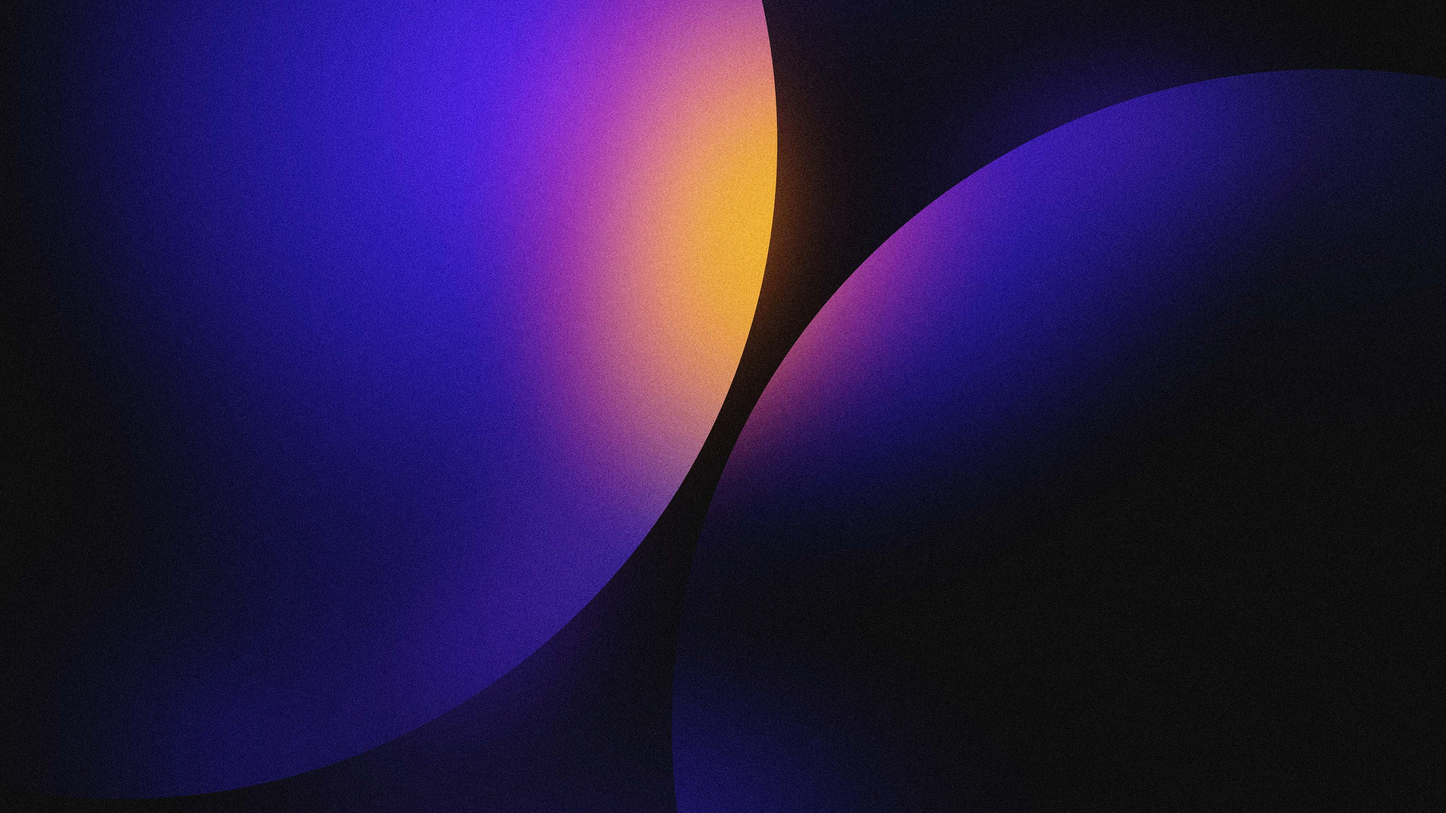
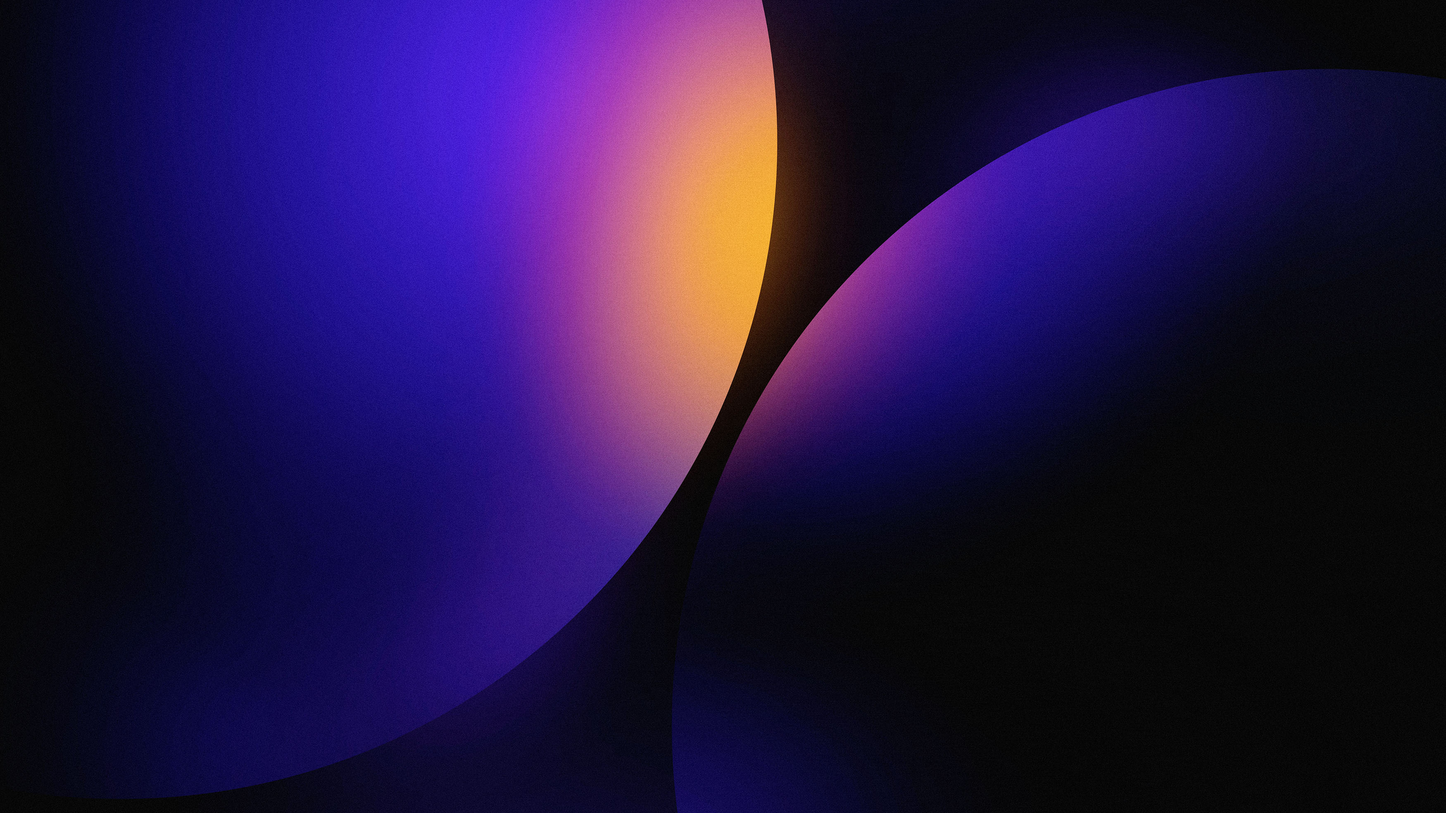
finally decided on the design style. dark-mode for software engineer

diff --git a/public/style.css b/public/style.css
@@ -58,7 +58,7 @@ h5 {
 
 html {
   box-sizing: border-box;
-  background-image: url("./public/resources/background-03.jpg");
+  background-image: url("./public/resources/background-01.jpg");
   background-size: cover;
   background-repeat: no-repeat;
   width: 100%;
@@ -119,7 +119,7 @@ html {
 
 .header_right .socialLinks a i {
   width: 20px;
-  color: #1c1c1c;
+  color: #c3c3c3;
   font-size: 1.4rem;
   margin: 0 0.7rem;
   transform: scale(1);
@@ -141,10 +141,10 @@ label {
   height: 1.4rem;
   position: relative;
   display: block;
-  background: #217f9b;
+  background: #22cbff;
   border-radius: 1.7rem;
   box-shadow: inset 0px 1px 4px rgba(11, 102, 152, 0.5),
-    inset 0px -1px 4px rgba(98, 174, 197, 1);
+    inset 0px -1px 4px rgb(164, 234, 255);
   cursor: pointer;
   transition: 0.3s;
 }
@@ -156,7 +156,7 @@ label:after {
   position: absolute;
   top: 0.5px;
   left: 0.5px;
-  background: linear-gradient(180deg, #9b9b9b, #d0d0d0);
+  background: linear-gradient(180deg, #d7d7d7, #c2c2c2);
   border-radius: 78px;
   box-shadow: 0px 1px 2px rgba(0, 0, 0, 0.2);
   transition: 0.3s;
@@ -169,14 +169,14 @@ input {
 }
 
 input:checked + label {
-  background: #c57b92;
-  box-shadow: inset 0px 1px 3px rgba(246, 152, 207, 0.7);
+  background: #ff91b4;
+  box-shadow: inset 0px 1px 3px rgba(255, 196, 230, 1);
 }
 
 input:checked + label:after {
   left: 3.45rem;
   transform: translateX(-100%);
-  background: linear-gradient(180deg, #9b9b9b, #d0d0d0);
+  background: linear-gradient(180deg, #d7d7d7, #c2c2c2);
 }
 
 label:active:after {
@@ -282,9 +282,6 @@ input:checked + label i.penIcon {
   display: grid;
   grid-template-columns: 1fr auto;
   grid-gap: 20px;
-  /* background-color: #343434; */
-  /* height: auto;
-  width: auto; */
   background-color: rgba(0, 0, 0, 0.8);
   backdrop-filter: blur(20px);
   -webkit-backdrop-filter: blur(20px);
@@ -313,7 +310,7 @@ input:checked + label i.penIcon {
 
 .project_content h4 {
   padding: 5px 0;
-  color: #3d644f;
+  color: #4a8767;
 }
 
 .project_content p {
@@ -334,21 +331,45 @@ input:checked + label i.penIcon {
   -webkit-backdrop-filter: blur(20px);
 }
 
+.three_dots:before {
+  content: "";
+  background-color: #f44336;
+  margin-left: -13px;
+  width: 10px;
+  height: 10px;
+  border-radius: 50%;
+  display: inline-block;
+  position: absolute;
+}
 .three_dots {
   background-color: #ffc107;
-  width: 5px;
-  height: 5px;
+  margin-left: 25px;
+  width: 10px;
+  height: 10px;
   border-radius: 50%;
+  display: inline-block;
 }
+.three_dots:after {
+  content: "";
+  background-color: #4caf50;
+  margin-left: 14px;
+  width: 10px;
+  height: 10px;
+  border-radius: 50%;
+  display: inline-block;
+  position: absolute;
+}
+
 .sw_title {
   color: #a1a1a1;
-  font-family: "Estedad-light";
-  padding: 0.1rem 0 0.1rem 2.5rem;
+  font-family: "Estedad-medium";
+  padding: 0.1rem 0 0.1rem 1.5rem;
+  display: inline;
 }
 
 .nav_links {
   font-family: "Estedad-light";
-  padding: 1em;
+  padding: 1.5em;
 }
 
 .nav_links li i {
@@ -362,4 +383,19 @@ input:checked + label i.penIcon {
 .nav_links li a.active {
   text-decoration: none;
   color: #909090;
+}
+
+.nav_sub_links {
+  padding-left: 1.5em;
+}
+
+.nav_sub_links li {
+  vertical-align: bottom;
+}
+
+.new_window_icon {
+  padding-top: 0.4em;
+  position: relative;
+  float: right;
+  vertical-align: bottom;
 }

diff --git a/app/components/SideNav.js b/app/components/SideNav.js
@@ -4,8 +4,10 @@ import { NavLink } from "react-router-dom";
 const SideNav = () => {
   return (
     <div className="side_nav">
-      <span className="three_dots"></span>
-      <span className="sw_title">Software Engineer</span>
+      <div className="dots_title">
+        <div className="three_dots"></div>
+        <div className="sw_title">Software Engineer</div>
+      </div>
 
       <ul className="nav_links">
         <li>
@@ -16,27 +18,30 @@ const SideNav = () => {
 
         <li>
           <NavLink>
+            <i class="fa-solid fa-chevron-right"></i>
             <i className="fa-solid fa-folder"></i>Intellego
           </NavLink>
         </li>
         <li>
           <NavLink>
+            <i class="fa-solid fa-chevron-right"></i>
             <i className="fa-solid fa-folder"></i>Video Chat
           </NavLink>
         </li>
         <li>
           <NavLink>
+            <i class="fa-solid fa-chevron-down"></i>
             <i className="fa-regular fa-folder-open"></i>UrgeM5
-          </NavLink>
-        </li>
-        <li>
-          <NavLink>
-            <i className="fa-brands fa-square-github"></i>Github
-            <i className="fa-solid fa-up-right-from-square"></i>
           </NavLink>
         </li>
 
         <ul className="nav_sub_links">
+          <li>
+            <NavLink>
+              <i className="fa-brands fa-square-github"></i>Github
+              <i className="fa-solid fa-up-right-from-square new_window_icon"></i>
+            </NavLink>
+          </li>
           <li>
             <NavLink>
               <i className="fa-brands fa-react"></i>React.js
